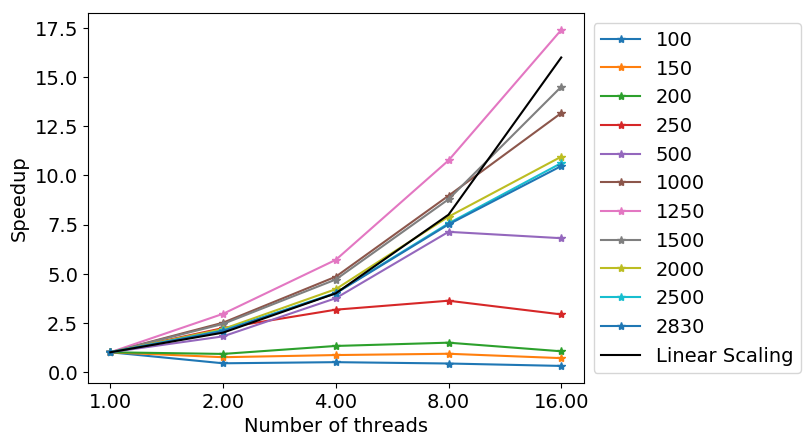
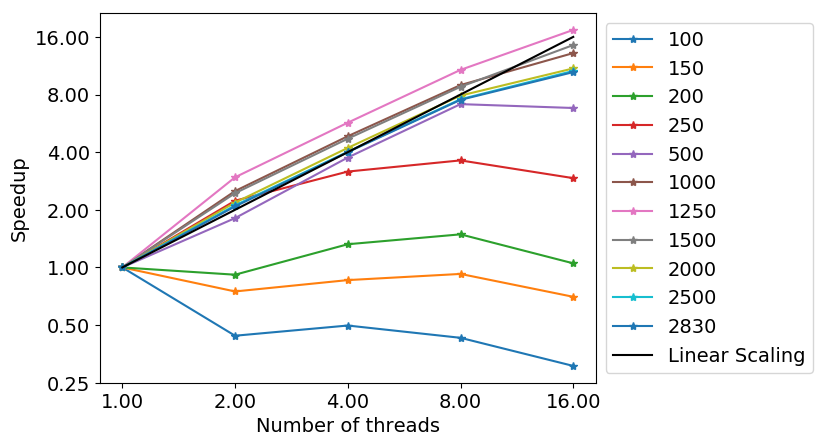
fix linear scaling on speedup plots for ccnuma experiment

diff --git a/data/ccnuma/vizfunnuma.py b/data/ccnuma/vizfunnuma.py
@@ -4,7 +4,7 @@ import pandas as pd
 import matplotlib as mpl
 mpl.use('Agg')
 import matplotlib.pyplot as plt
-from matplotlib.ticker import ScalarFormatter
+from matplotlib.ticker import ScalarFormatter, FormatStrFormatter
 
 sys.path.append('../')
 
@@ -87,11 +87,11 @@ for files, names in zip(files_list, names_list):
 	plt.xlabel('Number of threads')
 	plt.ylabel('Speedup')
 	plt.xscale('log',basex=2)
-	#plt.yscale('log',basey=2)
+	plt.yscale('log',basey=2)
 	ax = plt.gca().xaxis
 	ax.set_major_formatter(ScalarFormatter())
-	#ax = plt.gca().yaxis
-	#ax.set_major_formatter(ScalarFormatter())
+	ax = plt.gca().yaxis
+	ax.set_major_formatter(FormatStrFormatter('%.2f'))
 	plt.savefig('Speedup_%s.png' % names, bbox_inches='tight')
 	plt.close()
 
